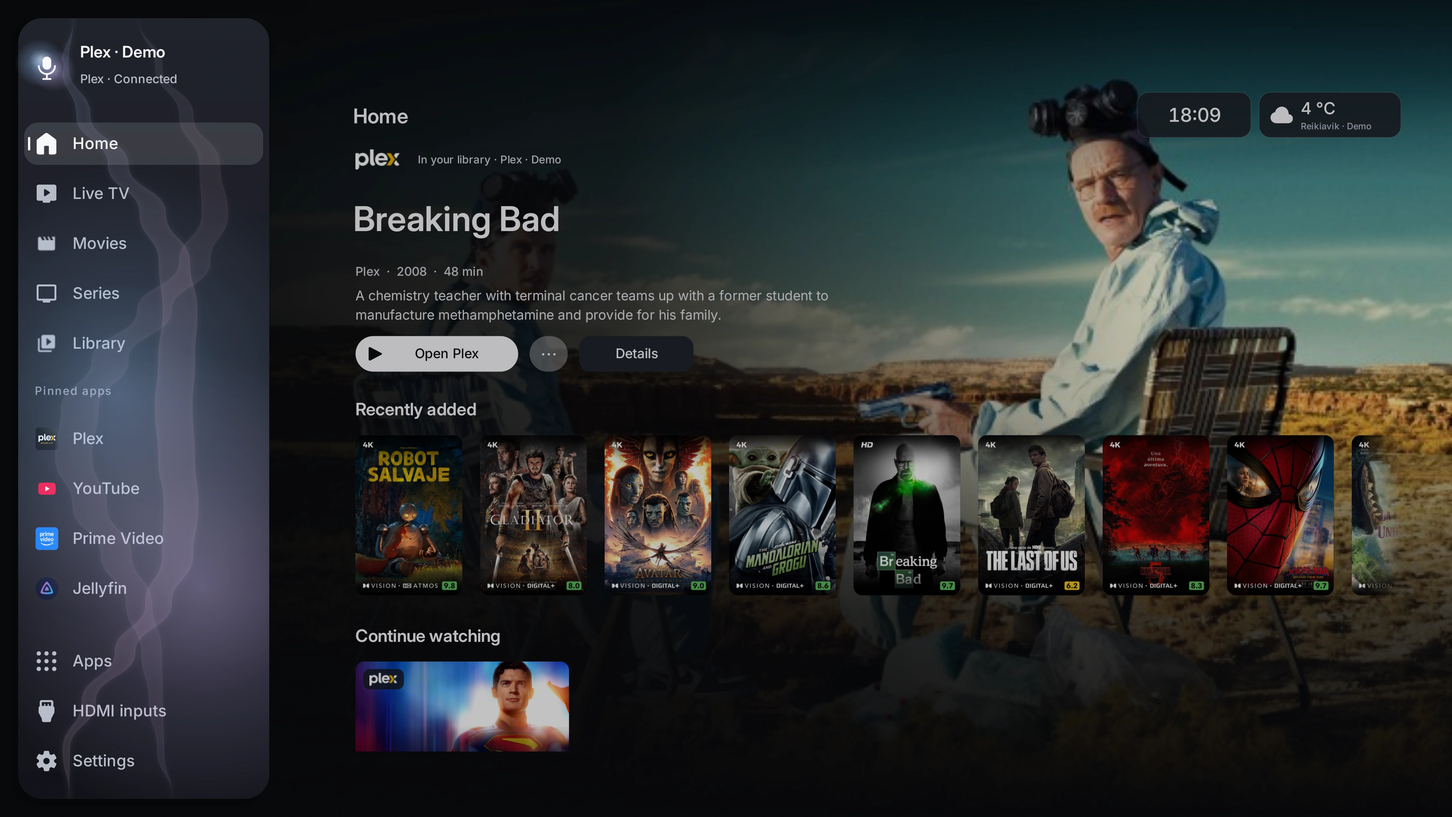
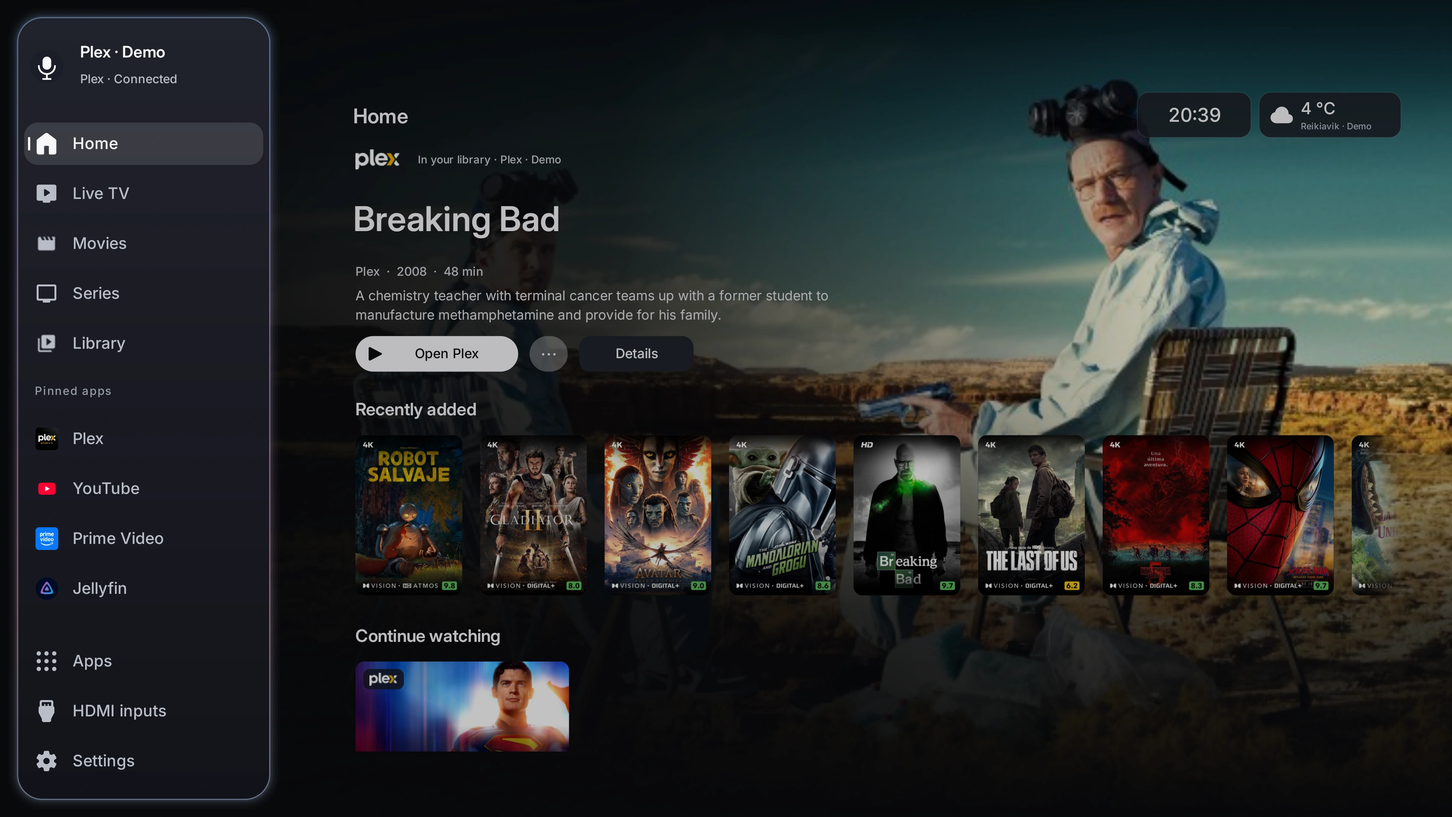
Release Vela 2.1.1 with exterior voice halo and specific Plex catalogue links

diff --git a/app/src/tv/vela/launcher/VelaVoiceSearch.java b/app/src/tv/vela/launcher/VelaVoiceSearch.java
@@ -176,17 +176,15 @@ final class VelaVoiceSearch {
             else{first=accent;hsv[0]=(hsv[0]+22)%360;second=Color.HSVToColor(hsv);hsv[0]=(hsv[0]+316)%360;third=Color.HSVToColor(hsv);}
         }
         int[] rim(){return new int[]{first,second,third,first};}
-        static RadialGradient bloom(int color){return new RadialGradient(0,0,1,new int[]{color,(color&0xFFFFFF)|0x65000000,color&0xFFFFFF},new float[]{0,.48f,1},Shader.TileMode.CLAMP);}
     }
-    /** A clipped, fluid light field follows the actual navigation surface. No full-screen render layer. */
+    /** A feathered contour follows the real sidebar; its interior is excluded from every light pass. */
     private final class Signal extends View {
         private final Paint paint=new Paint(3);private final RectF rect=new RectF(),bar=new RectF();private final Matrix matrix=new Matrix();
-        private final Path clip=new Path(),ribbon=new Path();private final float[] centers=new float[17],widths=new float[17];
-        private final RadialGradient blue,violet,pearl;private final LinearGradient sheet;private ValueAnimator pulse;
+        private final Path clip=new Path();
+        private final LinearGradient edge;private ValueAnimator pulse;
         private float phase,flow,energy,target,processMix,intro,noise=-2,peak=8;private boolean ready,reduced,processing;private long started,lastFrame,lastVoice;
         Signal(VoiceColors colors){
-            super(activity);setImportantForAccessibility(View.IMPORTANT_FOR_ACCESSIBILITY_YES);blue=VoiceColors.bloom(colors.first);violet=VoiceColors.bloom(colors.second);pearl=VoiceColors.bloom(0xFFE8F3FF);
-            sheet=new LinearGradient(0,0,1,1,new int[]{colors.first,colors.third,colors.second},null,Shader.TileMode.CLAMP);
+            super(activity);setImportantForAccessibility(View.IMPORTANT_FOR_ACCESSIBILITY_YES);edge=new LinearGradient(0,0,0,1,colors.rim(),new float[]{0,.34f,.68f,1},Shader.TileMode.MIRROR);
         }
         protected void onSizeChanged(int w,int h,int ow,int oh){bar.set(14,14,w-14,h-14);clip.rewind();clip.addRoundRect(bar,32,32,Path.Direction.CW);}
         void level(float rms){if(!ready||reduced||Float.isNaN(rms)||Float.isInfinite(rms))return;float value=Math.max(-12,Math.min(30,rms));noise=Math.min(noise,value);peak=Math.max(8,Math.max(value,peak*.995f));target=(float)Math.pow(Math.max(0,Math.min(1,(value-noise)/Math.max(6,peak-noise))),.8);lastVoice=SystemClock.uptimeMillis();}
@@ -203,23 +201,20 @@ final class VelaVoiceSearch {
             frame();
         }
         protected void onDetachedFromWindow(){freeze();ready=processing=false;super.onDetachedFromWindow();}
-        private void field(Canvas c,RadialGradient shader,float x,float y,float w,float h,float rotation,int alpha){matrix.setScale(w,h);matrix.postRotate(rotation);matrix.postTranslate(x,y);shader.setLocalMatrix(matrix);paint.setShader(shader);paint.setStyle(Paint.Style.FILL);paint.setAlpha(Math.max(0,Math.min(255,alpha)));c.drawRect(bar,paint);}
-        private void sheet(Canvas c,float offset,float amplitude,int alpha){
-            float w=bar.width(),h=bar.height();for(int i=0;i<=16;i++){float y=i/16f,envelope=(float)Math.sin(y*Math.PI);centers[i]=bar.left+w*(.5f+.22f*(float)Math.sin(y*7.2f+flow*1.2f+offset)+.1f*(float)Math.sin(y*13.4f-flow*.63f));widths[i]=w*(.075f+.07f*amplitude)*envelope;}
-            ribbon.rewind();ribbon.moveTo(centers[0],bar.top);for(int i=1;i<=16;i++){float y0=bar.top+(i-1)*h/16f,y1=bar.top+i*h/16f;ribbon.cubicTo(centers[i-1]-widths[i-1],y0+h/32,centers[i]-widths[i],y1-h/32,centers[i]-widths[i],y1);}for(int i=15;i>=0;i--){float y0=bar.top+(i+1)*h/16f,y1=bar.top+i*h/16f;ribbon.cubicTo(centers[i+1]+widths[i+1],y0-h/32,centers[i]+widths[i],y1+h/32,centers[i]+widths[i],y1);}ribbon.close();
-            matrix.setScale(w,h);matrix.postTranslate(bar.left,bar.top);sheet.setLocalMatrix(matrix);paint.setShader(sheet);paint.setStyle(Paint.Style.STROKE);paint.setStrokeWidth(12);paint.setAlpha(alpha/8);c.drawPath(ribbon,paint);paint.setStrokeWidth(5);paint.setAlpha(alpha/5);c.drawPath(ribbon,paint);paint.setStyle(Paint.Style.FILL);paint.setAlpha(alpha);c.drawPath(ribbon,paint);
+        private void contour(Canvas canvas,float width,int alpha,float strength){
+            paint.setStrokeWidth(width);paint.setAlpha(Math.round(alpha*strength));canvas.drawRoundRect(bar,32,32,paint);
         }
         protected void onDraw(Canvas c){
-            boolean lit=ready||processing;float w=bar.width(),h=bar.height(),strength=intro*(1-.55f*processMix),t=flow;
-            if(lit&&w>0&&h>0){int save=c.save();c.clipPath(clip);
-                field(c,blue,bar.left+w*(.22f+.24f*(float)Math.sin(t*.71f)),bar.top+h*(.3f+.18f*(float)Math.sin(t*.53f)),w*.88f,h*(.29f+.06f*energy),12+12*(float)Math.sin(t*.3f),(int)((100+75*energy)*strength));
-                field(c,violet,bar.left+w*(.78f+.13f*(float)Math.cos(t*.59f)),bar.top+h*(.7f+.17f*(float)Math.cos(t*.43f)),w*.95f,h*.3f,-15,(int)((100+60*energy)*strength));
-                field(c,pearl,bar.left+w*.5f,bar.top+h*(.47f+.2f*(float)Math.sin(t*.67f)),w*.85f,h*.22f,8,(int)((25+34*energy)*strength));
-                sheet(c,.3f,energy,(int)((32+35*energy)*strength));sheet(c,2.7f,energy*.7f,(int)((22+24*energy)*strength));c.restoreToCount(save);
+            boolean lit=ready||processing;float h=bar.height(),strength=intro*(.72f+.28f*energy)*(1-.4f*processMix);
+            if(lit&&bar.width()>0&&h>0){
+                matrix.setScale(1,h*1.18f);matrix.postTranslate(0,bar.top-h*.28f+h*.24f*(float)Math.sin(flow*.58f));edge.setLocalMatrix(matrix);
+                int save=c.save();c.clipOutPath(clip);paint.setShader(edge);paint.setStyle(Paint.Style.STROKE);
+                // Overlapping native strokes soften outwards; no blur, layer or full-screen bitmap.
+                contour(c,28,7,strength);contour(c,22,10,strength);contour(c,16,15,strength);contour(c,10,23,strength);contour(c,5,40,strength);contour(c,2.4f,170,strength);
+                c.restoreToCount(save);
             }
-            // The original profile icon keeps its position in both rail and expanded drawer.
+            // A small neutral microphone is the only replacement for the profile avatar.
             float cx=bar.left+38,cy=bar.top+64;paint.setShader(null);paint.setStyle(Paint.Style.FILL);paint.setColor(0xFF1B1E27);paint.setAlpha(255);c.drawCircle(cx,cy,22,paint);
-            if(lit){int save=c.save();c.clipRect(cx-42,cy-42,cx+42,cy+42);rect.set(bar);bar.set(cx-42,cy-42,cx+42,cy+42);field(c,blue,cx-9+5*(float)Math.sin(t),cy-5,33+energy*7,32,0,(int)(170*intro));field(c,violet,cx+9,cy+9+4*(float)Math.cos(t*.83f),30,28,0,(int)(145*intro));field(c,pearl,cx-7,cy-10,16,13,0,(int)(120*intro));bar.set(rect);c.restoreToCount(save);}
             paint.setShader(null);paint.setStyle(Paint.Style.FILL);paint.setColor(VelaTheme.WHITE);paint.setAlpha(lit?255:175);int badge=c.save();c.translate(cx,cy);c.scale(.82f,.82f);rect.set(-7,-16,7,5);c.drawRoundRect(rect,7,7,paint);paint.setStyle(Paint.Style.STROKE);paint.setStrokeWidth(2.8f);paint.setStrokeCap(Paint.Cap.ROUND);rect.set(-13,-14,13,12);c.drawArc(rect,0,180,false,paint);c.drawLine(0,12,0,20,paint);c.drawLine(-6,20,6,20,paint);c.restoreToCount(badge);
         }
     }

diff --git a/tests/AndroidVoiceTest.java b/tests/AndroidVoiceTest.java
@@ -44,6 +44,11 @@ public final class AndroidVoiceTest extends Instrumentation {
     }
     Bundle words(String text){Bundle b=new Bundle();b.putStringArrayList(SpeechRecognizer.RESULTS_RECOGNITION,new ArrayList<>(Arrays.asList(text)));return b;}
     void armLegacy()throws Exception{monitor=addMonitor(new IntentFilter(RecognizerIntent.ACTION_RECOGNIZE_SPEECH),null,true);ui(()->{try{check(((VelaVoice.Session)field(activity,"voice")).start(activity),"Legacy compatibility session failed");}catch(Exception e){throw new RuntimeException(e);}});check(monitor.getHits()==1,"Legacy session did not launch its explicit intent");removeMonitor(monitor);monitor=null;}
+    void contourPixels(Object signal)throws Exception{
+        final Bitmap[] image={null};final android.graphics.RectF[] bar={null};ui(()->{try{View view=(View)signal;image[0]=Bitmap.createBitmap(view.getWidth(),view.getHeight(),Bitmap.Config.ARGB_8888);view.draw(new android.graphics.Canvas(image[0]));bar[0]=new android.graphics.RectF((android.graphics.RectF)field(signal,"bar"));}catch(Exception e){throw new RuntimeException(e);}});
+        try{android.graphics.RectF b=bar[0];int samples=0;for(int y=(int)b.top+40;y<b.bottom-40;y+=19)for(int x=(int)b.left+8;x<b.right-8;x+=17){if(Math.abs(x-(b.left+38))<25&&Math.abs(y-(b.top+64))<25)continue;check((image[0].getPixel(x,y)>>>24)==0,"Voice light leaked inside the sidebar");samples++;}check(samples>50,"Contour pixel check sampled too little");check((image[0].getPixel((int)b.left-1,(int)b.centerY())>>>24)>0,"The exterior voice contour is missing");}
+        finally{if(image[0]!=null)image[0].recycle();}
+    }
     void productionKeys()throws Exception{
         try(ParcelFileDescriptor grant=getUiAutomation().executeShellCommand("pm grant "+context.getPackageName()+" android.permission.RECORD_AUDIO");InputStream in=new ParcelFileDescriptor.AutoCloseInputStream(grant)){while(in.read()!=-1){}}
         ui(()->{integrated=new VelaVoiceSearch(activity,new VelaVoiceSearch.Host(){public void phrase(String text){((VelaHub.Owner)activity).tools(0);try{actual().voiceQuery(VelaVoice.parse(text));}catch(Exception e){throw new RuntimeException(e);}}public void keyboard(){((VelaHub.Owner)activity).tools(0);}},owner->{FakeSpeech engine=new FakeSpeech();engines.add(engine);return engine;});try{Field f=activity.getClass().getDeclaredField("voiceSearchUI");f.setAccessible(true);f.set(activity,integrated);}catch(Exception e){throw new RuntimeException(e);}});
@@ -58,8 +63,8 @@ public final class AndroidVoiceTest extends Instrumentation {
         // The sole listening surface is the rail; capture and processing never create a prompt or dim Home.
         ui(integrated::start);FakeSpeech motion=engines.get(engines.size()-1);ui(()->{motion.listener.onReadyForSpeech(new Bundle());motion.listener.onRmsChanged(9);});
         Object panel=field(integrated,"panel"),signal=field(panel,"signal");check(field(panel,"strip")==null&&((View)panel).getBackground()==null,"Listening created a transcript panel or darkened Home");
-        View sidebar=activity.findViewById(android.R.id.content).findViewWithTag("vela-sidebar");if(sidebar!=null){android.view.ViewGroup.LayoutParams original=sidebar.getLayoutParams();int width=original.width;ui(()->{original.width=332;sidebar.setLayoutParams(original);});Thread.sleep(150);check(((View)signal).getWidth()>=350,"Expanded drawer still uses collapsed voice bounds");ui(()->{original.width=width;sidebar.setLayoutParams(original);});}Thread.sleep(220);float phaseBefore=(Float)field(signal,"phase");Thread.sleep(100);check((Float)field(signal,"phase")!=phaseBefore&&(Float)field(signal,"energy")>0,"Reactive rail did not animate");
-        key(KeyEvent.KEYCODE_DPAD_CENTER,KeyEvent.ACTION_DOWN);key(KeyEvent.KEYCODE_DPAD_CENTER,KeyEvent.ACTION_UP);check(motion.stopped==1,"OK did not finish quiet listening");check(field(panel,"strip")==null&&((View)panel).getBackground()==null,"Processing displayed a bottom panel");check(!(Boolean)field(signal,"ready")&&(Boolean)field(signal,"processing")&&field(signal,"pulse")!=null,"Processing lost its quieter indicator");ui(integrated::cancel);check(field(signal,"pulse")==null&&motion.destroyed==1,"Closing voice retained an animation clock");
+        View sidebar=activity.findViewById(android.R.id.content).findViewWithTag("vela-sidebar");if(sidebar!=null){android.view.ViewGroup.LayoutParams original=sidebar.getLayoutParams();int width=original.width;ui(()->{original.width=332;sidebar.setLayoutParams(original);});Thread.sleep(150);check(((View)signal).getWidth()>=350,"Expanded drawer still uses collapsed voice bounds");contourPixels(signal);ui(()->{original.width=width;sidebar.setLayoutParams(original);});}Thread.sleep(220);float phaseBefore=(Float)field(signal,"phase");Thread.sleep(100);check((Float)field(signal,"phase")!=phaseBefore&&(Float)field(signal,"energy")>0,"Reactive rail did not animate");
+        contourPixels(signal);key(KeyEvent.KEYCODE_DPAD_CENTER,KeyEvent.ACTION_DOWN);key(KeyEvent.KEYCODE_DPAD_CENTER,KeyEvent.ACTION_UP);check(motion.stopped==1,"OK did not finish quiet listening");check(field(panel,"strip")==null&&((View)panel).getBackground()==null,"Processing displayed a bottom panel");check(!(Boolean)field(signal,"ready")&&(Boolean)field(signal,"processing")&&field(signal,"pulse")!=null,"Processing lost its quieter indicator");ui(integrated::cancel);check(field(signal,"pulse")==null&&motion.destroyed==1,"Closing voice retained an animation clock");
         String namespace=lite?"lite_home":"visuals",motionKey=lite?"reduce_motion":"reducedMotion";VelaWorkspace.prefs(context,namespace).edit().putBoolean(motionKey,true).commit();
         ui(integrated::start);FakeSpeech reduced=engines.get(engines.size()-1);ui(()->reduced.listener.onReadyForSpeech(new Bundle()));Object staticSignal=field(field(integrated,"panel"),"signal");check(field(staticSignal,"pulse")==null&&(Boolean)field(staticSignal,"ready"),"Reduced motion started a voice animation");ui(integrated::cancel);VelaWorkspace.prefs(context,namespace).edit().putBoolean(motionKey,false).commit();
         check(!VelaVoice.key(KeyEvent.KEYCODE_ASSIST)&&!VelaVoice.key(KeyEvent.KEYCODE_VOICE_ASSIST),"Google buttons were claimed by Vela");

diff --git a/tests/AndroidHomePersonalizationTest.java b/tests/AndroidHomePersonalizationTest.java
@@ -53,6 +53,17 @@ public final class AndroidHomePersonalizationTest extends Instrumentation {
     }
     List<View> cards()throws Exception{return (List<View>)field(home,"cards");}
     List<?> shelves()throws Exception{return (List<?>)field(home,"shelves");}
+    void itemHandoffs()throws Exception{
+        final Intent[] opened={null};ActivityMonitor monitor=new ActivityMonitor(){public ActivityResult onStartActivity(Intent intent){if("com.plexapp.android".equals(intent.getPackage())){opened[0]=new Intent(intent);return new ActivityResult(Activity.RESULT_OK,null);}return null;}};addMonitor(monitor);
+        try{final List<PlexClient.Film> samples=new ArrayList<>();ui(()->{try{List<PlexClient.Film> values=(List<PlexClient.Film>)field(home,"posterFilms");List<View> all=cards();for(Object row:shelves()){List<View> items=(List<View>)field(row,"items");if(!items.isEmpty())for(View card:Arrays.asList(items.get(0),items.get(items.size()-1)))samples.add(values.get(all.indexOf(card)));}}catch(Exception e){throw new RuntimeException(e);}});int checked=0,series=0;
+            for(PlexClient.Film expected:samples){opened[0]=null;ui(()->{try{List<PlexClient.Film> current=(List<PlexClient.Film>)field(home,"posterFilms");int at=-1;for(int i=0;i<current.size();i++)if(current.get(i).key.equals(expected.key)&&current.get(i).continuing==expected.continuing){at=i;break;}check(at>=0,"Fixture title disappeared before click");cards().get(at).performClick();}catch(Exception e){throw new RuntimeException(e);}});Intent intent=opened[0];check(intent!=null&&Intent.ACTION_VIEW.equals(intent.getAction()),"A title opened only the Plex launcher");android.net.Uri uri=intent.getData();String server=new PlexClient(context).prefs.getString("serverId","");
+                if(expected.continuing){check("preplay".equals(uri.getHost())&&("/library/metadata/"+expected.key).equals(uri.getQueryParameter("metadataKey"))&&server.equals(uri.getQueryParameter("server")),"Resume handoff changed");}
+                else{check("libraries".equals(uri.getHost()),"Fresh title used a generic/old preplay link");List<String> parts=uri.getPathSegments();check(parts.get(0).equals(server)&&parts.get(parts.size()-1).equals("/library/metadata/"+expected.key),"Clicked card lost server or item identity");check(parts.contains("tv")==expected.type.equals("show"),"Series and movie routes were confused");check(!intent.getBooleanExtra("android.intent.extra.START_PLAYBACK",true),"A fresh title unexpectedly starts playback");if(expected.type.equals("show"))series++;}
+                check(!uri.toString().contains("fixture-session")&&!uri.toString().contains("vela-fixture.invalid"),"Account credentials or server address escaped in a handoff");checked++;
+            }check(checked>=12&&series>0,"Not all configured Home rows were checked");
+            PlexClient.Film invalid=new PlexClient.Film();invalid.packageName="com.plexapp.android";invalid.type="movie";invalid.key="../bad";check(new LibraryClient(context).open(invalid)==null,"Malformed item should not become a generic Plex launch");
+        }finally{removeMonitor(monitor);}
+    }
     void launch()throws Exception{activity=(HomeActivity)startActivitySync(new Intent(context,HomeActivity.class).addFlags(Intent.FLAG_ACTIVITY_NEW_TASK));home=(CinemaHomeView)field(activity,"home");await(()->!cards().isEmpty()&&field(home,"heroBitmap")!=null);}
     public void onCreate(Bundle b){super.onCreate(b);args=b;start();}
     public void onStart(){context=getTargetContext();try{
@@ -71,6 +82,7 @@ public final class AndroidHomePersonalizationTest extends Instrumentation {
         phase="home-feeds";launch();await(()->((Map<?,?>)field(home,"homeRows")).size()==4);check(rowRequests.get()==4,"A row made redundant feed requests");check(shelves().size()==6,"The configured Home rows are missing");
         List<PlexClient.Film> films=(List<PlexClient.Film>)field(home,"posterFilms");check(films.size()<=72,"Home retained an entire catalogue");
         for(String row:VelaLayout.EXTRA_ROWS){List<?> values=((Map<String,List<?>>)field(home,"homeRows")).get(row);check(values.size()==12,"Home row exceeded twelve titles");}
+        phase="home-card-item-handoffs";itemHandoffs();
         overrun=true;boolean refused=false;try{new LibraryClient(context).homeRow("recent_movies");}catch(IOException expected){refused=true;}overrun=false;check(refused,"The server ignored the Home response limit");
         await(()->{for(ImageView v:(List<ImageView>)field(home,"posterImages"))if(v.getGlobalVisibleRect(new Rect())&&v.getDrawable()==null)return false;return true;});shot("01-home");
         phase="scroll-motion";ScrollView scroll=(ScrollView)field(home,"shelvesScroll");Object next=shelves().get(1);View nextCard=((List<View>)field(next,"items")).get(0);int target=((View)field(next,"root")).getTop();int initial=scroll.getScrollY();

diff --git a/tests/PlexFeedTest.java b/tests/PlexFeedTest.java
@@ -4,6 +4,7 @@ import java.util.*;
 
 public class PlexFeedTest {
     public static void main(String[] args) throws Exception {
+        links();
         require(PlexClient.avatarAllowed("https://plex.tv/users/example/avatar")&&PlexClient.avatarAllowed("https://secure.gravatar.com/avatar/example"),"Plex avatar sources");
         for(String url:new String[]{"http://plex.tv/users/example/avatar","https://plex.tv.attacker.invalid/avatar","https://user@plex.tv/avatar","https://plex.tv:8080/avatar","file:///avatar.png","https://127.0.0.1/avatar"})require(!PlexClient.avatarAllowed(url),"Unsafe avatar source accepted");
         require(PlexClient.profileKey("").isEmpty(),"Unlinked account must not share a previous avatar");
@@ -84,6 +85,19 @@ public class PlexFeedTest {
         JSONObject finished=new JSONObject(episode.toString()).put("viewOffset",100);PlexClient.mergeContinue(nextHome,new JSONObject().put("MediaContainer",new JSONObject().put("Metadata",new JSONArray().put(finished).put(upcoming))));require(PlexClient.parseHubs(nextHome).size()==1&&PlexClient.parseHubs(nextHome).get(0).key.equals("102"),"finished metadata hid the next pending episode");
         require(PlexClient.watchedPath("102").equals("/:/scrobble?identifier=com.plexapp.plugins.library&key=102"),"watched endpoint");for(String bad:new String[]{"", "../42", "42&key=other", "movie", "999999999999999999999"}){rejected=false;try{PlexClient.watchedPath(bad);}catch(Exception expected){rejected=true;}require(rejected,"unsafe Plex watched item accepted");}
         System.out.println("PASS Plex feed and catalog: real artwork, hub-based continue watching, sections, bounded pages, offset validation, deduplication, unknown totals and empty/last pages");
+    }
+    private static void links()throws Exception{
+        PlexClient.Film film=new PlexClient.Film();film.key="123";film.type="movie";film.title="Never placed in the URI";String prefix="plex://libraries/demo-server/unmatched/";
+        require(PlexClient.detailUri("demo-server",film,true).equals(prefix+"%2Flibrary%2Fmetadata%2F123"),"movie must target one encoded metadata route, not Plex Home");
+        film.type="show";require(PlexClient.detailUri("demo-server",film,true).equals(prefix+"tv/%2Flibrary%2Fmetadata%2F123"),"series must use the TV detail route");
+        film.type="season";film.seriesKey="42";require(PlexClient.detailUri("demo-server",film,true).equals(prefix+"tv/%2Flibrary%2Fmetadata%2F42"),"season handoff lost its series");
+        JSONObject season=new JSONObject().put("ratingKey","55").put("type","season").put("title","Season 1").put("parentRatingKey","42");PlexClient.Film parsedSeason=PlexClient.parseChildren(page(new JSONArray().put(season),0,1),0,24).films.get(0);require(parsedSeason.seriesKey.equals("42")&&PlexClient.detailUri("demo-server",parsedSeason,true).equals(prefix+"tv/%2Flibrary%2Fmetadata%2F42"),"Parsed season lost its parent-series destination");
+        film.type="episode";require(PlexClient.detailUri("demo-server",film,true).equals(prefix+"%2Flibrary%2Fmetadata%2F123"),"episode was replaced by the series key");
+        require(PlexClient.detailUri("other-server",film,false).equals("plex://server://other-server/com.plexapp.plugins.library/library/metadata/123?autoPlay=0"),"legacy Android route lost server or selected item");
+        require(PlexClient.modernLinks("2026.20.0")&&PlexClient.modernLinks("2025.10.1")&&!PlexClient.modernLinks("10.30.8.4222")&&!PlexClient.modernLinks("9.23.0")&&PlexClient.modernLinks(null),"Plex app generation selection");
+        for(String key:new String[]{"","../123","123?token=private","123&key=456","/library/metadata/123","999999999999999999999"}){film.key=key;require(PlexClient.detailUri("demo-server",film,true)==null,"unsafe item handoff");}film.key="123";
+        for(String server:new String[]{"","../server","server?X-Plex-Token=private","server/path","server#fragment","https://host.invalid"})require(PlexClient.detailUri(server,film,true)==null,"unsafe server handoff");
+        film.type="track";require(PlexClient.detailUri("demo-server",film,true)==null,"unsupported item handoff");
     }
     private static JSONObject page(JSONArray items,int offset,int total)throws Exception{return new JSONObject().put("MediaContainer",new JSONObject().put("Metadata",items).put("offset",offset).put("totalSize",total));}
     private static void require(boolean value,String message) { if(!value)throw new AssertionError(message); }

diff --git a/app/src/tv/vela/launcher/PlexClient.java b/app/src/tv/vela/launcher/PlexClient.java
@@ -287,7 +287,7 @@ class PlexClient {
         if(type.equals("episode"))film.meta+="  ·  T"+item.optInt("parentIndex")+" E"+item.optInt("index");
         long duration=item.optLong("duration"),offset=item.optLong("viewOffset");
         film.durationMs=Math.max(0,duration);film.positionMs=item.has("viewOffset")&&!item.isNull("viewOffset")?Math.max(-1,offset):-1;
-        film.seriesKey=type.equals("episode")?item.optString("grandparentRatingKey"):"";film.nextEpisode=resume&&type.equals("episode")&&offset<=0&&item.optInt("viewCount")==0;if(film.nextEpisode){film.positionMs=0;if(duration>0)film.progress=0;}
+        film.seriesKey=type.equals("episode")?item.optString("grandparentRatingKey"):type.equals("season")?item.optString("parentRatingKey"):"";film.nextEpisode=resume&&type.equals("episode")&&offset<=0&&item.optInt("viewCount")==0;if(film.nextEpisode){film.positionMs=0;if(duration>0)film.progress=0;}
         long last=item.optLong("lastViewedAt");if(last>0&&last<=Long.MAX_VALUE/1000)film.lastPlayedMs=last*1000;
         long added=item.optLong("addedAt");if(added>0&&added<=Long.MAX_VALUE/1000)film.addedAtMs=added*1000;film.homeRating=VelaHomeRows.rating(item.optDouble("audienceRating",item.optDouble("rating",0)));
         if(type.equals("episode"))film.episodeLabel="T"+item.optInt("parentIndex")+" · E"+item.optInt("index");
@@ -301,9 +301,26 @@ class PlexClient {
         if(base==null||token==null||token.isEmpty()||id==null||!expectedIdentity.equals(id+":"+profileKey(token)))throw new IOException("Plex account changed");
         bytes(base+path,token,null,8000,64*1024,"PUT");if(expectedIdentity.equals(identity()))prefs.edit().remove("libraryCache").remove("libraryAt").commit();
     }
-    String openUri(Film film) {
-        return "plex://preplay/?metadataKey=" + encode("/library/metadata/" + film.key)
-                + "&server=" + encode(prefs.getString("serverId", ""));
+    String openUri(Film film){return openUri(film,true);}
+    String openUri(Film film,boolean modern){
+        String server=prefs.getString("serverId","");
+        if(!validLink(server,film))return null;
+        // Preserve the existing resume handoff. Fresh catalogue items need a library-detail route.
+        return film.continuing?"plex://preplay/?metadataKey=%2Flibrary%2Fmetadata%2F"+film.key+"&server="+server:detailUri(server,film,modern);
+    }
+    private static boolean validLink(String server,Film film){return server!=null&&server.matches("[A-Za-z0-9][A-Za-z0-9._-]{0,127}")&&film!=null&&film.key!=null&&film.key.matches("[0-9]{1,20}")&&Arrays.asList("movie","show","season","episode").contains(film.type);}
+    /** Local metadata only: never place account tokens, addresses or titles in an app handoff. */
+    static String detailUri(String server,Film film,boolean modern){
+        if(!validLink(server,film))return null;
+        if(!modern)return "plex://server://"+server+"/com.plexapp.plugins.library/library/metadata/"+film.key+"?autoPlay=0";
+        boolean series=film.type.equals("show")||film.type.equals("season");String key=film.key;
+        if(film.type.equals("season")&&film.seriesKey!=null&&film.seriesKey.matches("[0-9]{1,20}"))key=film.seriesKey;
+        // Plex expects the complete metadata path encoded once as a single route segment.
+        return "plex://libraries/"+server+"/unmatched/"+(series?"tv/":"")+"%2Flibrary%2Fmetadata%2F"+key;
+    }
+    static boolean modernLinks(String version){
+        if(version==null)return true;java.util.regex.Matcher year=java.util.regex.Pattern.compile("^([0-9]{4})\\.").matcher(version);
+        return year.find()?Integer.parseInt(year.group(1))>=2025:!version.matches("^[0-9]{1,2}\\..*");
     }
     byte[] image(String path, int width, int height) throws IOException {
         return image(path,width,height,false);

diff --git a/app/src/tv/vela/launcher/LibraryClient.java b/app/src/tv/vela/launcher/LibraryClient.java
@@ -76,5 +76,17 @@ final class LibraryClient {
     void markWatched(PlexClient.Film f,String expected)throws Exception{if(!canMarkWatched(f)||!expected.equals(identity()))throw new IOException("Library account changed");if(jf(f))jellyfin.markWatched(f.key,jellyfin.identity());else plex.markWatched(f.key,plex.identity());}
     JSONObject reference(PlexClient.Film f)throws Exception{if(f.tvSource||!Arrays.asList("com.plexapp.android",JellyfinClient.PACKAGE).contains(f.packageName))return null;String account=PlexClient.profileKey(jf(f)?jellyfin.identity():plex.identity());return new JSONObject().put("id","media:"+PlexClient.profileKey(f.packageName+"|"+account+"|"+f.key)).put("kind","media").put("provider",jf(f)?"Jellyfin":"Plex").put("key",f.key).put("account",account).put("title",VelaWorkspace.clean(f.title,320));}
     PlexClient.Film resolve(JSONObject ref)throws Exception{boolean jf=ref.optString("provider").equals("Jellyfin");String expected=PlexClient.profileKey(jf?jellyfin.identity():plex.identity());if(!ref.optString("account").equals(expected))return null;PlexClient.Film f=jf?jellyfin.item(ref.optString("key")):plex.item(ref.optString("key"));if(f!=null)decorate(Arrays.asList(f));return f;}
-    Intent open(PlexClient.Film f){if(jf(f)){String id=JellyfinClient.guid(f.key);Intent i=HomeApps.launchIntent(context.getPackageManager(),JellyfinClient.PACKAGE);return id.isEmpty()||i==null?null:i.putExtra("ItemId",id).putExtra("HideSplash",true);}return new Intent(Intent.ACTION_VIEW,android.net.Uri.parse(plex.openUri(f))).setPackage("com.plexapp.android");}
+    Intent open(PlexClient.Film f){
+        if(f==null)return null;if(jf(f)){String id=JellyfinClient.guid(f.key);Intent i=HomeApps.launchIntent(context.getPackageManager(),JellyfinClient.PACKAGE);return id.isEmpty()||i==null?null:i.putExtra("ItemId",id).putExtra("HideSplash",true);}
+        if(!f.packageName.equals("com.plexapp.android"))return null;
+        boolean modern=true;try{modern=PlexClient.modernLinks(context.getPackageManager().getPackageInfo("com.plexapp.android",0).versionName);}catch(android.content.pm.PackageManager.NameNotFoundException unavailable){}
+        String uri=plex.openUri(f,modern);if(uri==null)return null;Intent preferred=plexIntent(uri,f.continuing);
+        if(preferred.resolveActivity(context.getPackageManager())!=null)return preferred;
+        String server=plex.prefs.getString("serverId","");for(boolean family:new boolean[]{modern,!modern}){
+            String route=PlexClient.detailUri(server,f,family);if(route==null||route.equals(uri))continue;Intent alternate=plexIntent(route,f.continuing);if(alternate.resolveActivity(context.getPackageManager())!=null)return alternate;
+        }
+        // Starting the specific intent reports a real failure; never silently replace it with Plex Home.
+        return preferred;
+    }
+    private static Intent plexIntent(String uri,boolean resume){Intent i=new Intent(Intent.ACTION_VIEW,android.net.Uri.parse(uri)).setPackage("com.plexapp.android");if(!resume)i.putExtra("android.intent.extra.START_PLAYBACK",false);return i;}
 }

diff --git a/app/src/tv/vela/launcher/CinemaHomeView.java b/app/src/tv/vela/launcher/CinemaHomeView.java
@@ -760,7 +760,7 @@ final class CinemaHomeView extends FrameLayout {
         if(selected==null){LibraryClient shown=filter==0?homeLibrary:plex;if(filter==3)openPackage(TvSuggestions.YOUTUBE,"YouTube");else if(!shown.connected()){if(filter==0&&!VelaLayout.source(activity).equals("current"))activity.startActivity(new Intent(activity,shown.linkActivity()));else manageLibrary();}else openPackage(shown.packageName(),shown.provider());return;}
         refreshedAt=0;
         if(selected.tvSource){Intent intent=ContinueWatching.launch(activity,selected);if(intent!=null)launch(intent);else openPackage(selected.packageName,selected.provider);return;}
-        Intent intent=plex.open(selected);if(intent!=null&&intent.resolveActivity(activity.getPackageManager())!=null)launch(intent);else openPackage(selected.packageName,selected.provider);
+        Intent intent=plex.open(selected);if(intent!=null)launch(intent);else note(L10n.text("Could not open this option."));
     }
     private void manageLibrary(){if(toolsLayer!=null){((HomeActivity)activity).afterTools(v->v.manageLibrary());return;}activity.startActivity(plex.both()?new Intent(activity,SettingsActivity.class).putExtra("page",21):plex.connected()?new Intent(activity,plex.linkActivity()):new Intent(activity,SettingsActivity.class).putExtra("page",14));}
     private void openPackage(String pkg,String name){if(toolsLayer!=null){((HomeActivity)activity).afterTools(v->v.openPackage(pkg,name));return;}Intent intent=HomeApps.launchIntent(activity.getPackageManager(),pkg);if(intent==null){note(name+L10n.text(" is not installed."));return;}launch(intent);}

diff --git a/lite/README.md b/lite/README.md
@@ -4,11 +4,11 @@
 
 **Lite is now a mode inside the unified Vela APK.** Choose it on first launch or in Settings → System → Launcher mode. It keeps the existing HDMI, antenna and apps interface while leaving the multimedia Home and library clients inactive. [One app and migration guide](../guide/UNIFIED.md).
 
-Already using the old standalone Lite app? Its final [0.18.0 transition update](https://github.com/LucasLG92/vela-tv/releases/tag/lite-v0.18.1-preview) enables an explicit import of your current settings profile into unified Vela.
+Already using the old standalone Lite app? Its final [0.18.2 transition update](https://github.com/LucasLG92/vela-tv/releases/tag/lite-v0.18.2-preview) enables an explicit import of your current settings profile into unified Vela.
 
 Your **HDMI devices, antenna television and apps**, in a clean home screen made for your remote. Vela Lite is for the television that sits alongside a TV box, console or computer.
 
-**[Download Vela — choose Lite](https://github.com/LucasLG92/vela-tv/releases/tag/v2.1.0-preview)** · [Gallery](gallery/README.md) · [Installation](INSTALL.md) · [Full Vela](../README.md)
+**[Download Vela — choose Lite](https://github.com/LucasLG92/vela-tv/releases/tag/v2.1.1-preview)** · [Gallery](gallery/README.md) · [Installation](INSTALL.md) · [Full Vela](../README.md)
 
 **Android TV / Google TV · Android 8.0+ · English / Español / Português / Français / Deutsch / Italiano · Preview**
 
@@ -80,7 +80,7 @@ Every menu is available in **English, Spanish, Portuguese, French, German and It
 
 Lite contains **no Plex, Jellyfin, M3U, Xtream or Media3 runtime**. The tuner handles antenna playback. Small paged lists, recycled rows, local icons and disposable workers keep the launcher focused on its job. It has no background service.
 
-Both modes check and download the same unified Vela release. Downloads are verified before Android asks you to install, and completed APKs are cleaned from the private cache. Only the old standalone Lite package uses the final 0.18.0 transition release; new users choose Lite inside the unified app.
+Both modes check and download the same unified Vela release. Downloads are verified before Android asks you to install, and completed APKs are cleaned from the private cache. Only the old standalone Lite package uses the final 0.18.2 transition release; new users choose Lite inside the unified app.
 
 [Player controls](../guide/PLAYER.md) · [All personalisation tools](../guide/YOUR-VELA.md) · [HDMI detection](../guide/HDMI.md) · [Privacy](../guide/PRIVACY.md) · [Development and compatibility](DEVELOPMENT.md)
 

diff --git a/gallery/README.md b/gallery/README.md
@@ -1,6 +1,6 @@
 # Vela in pictures
 
-Explore 81 native **4K screenshots**. The new voice and search captures show **2.1.0-preview**. The unified mode selector, Lite, mode settings and personalised Home captures show **2.0.0-preview**; the explicit old-Lite import prompt shows the **0.18.0-preview** transition app. Earlier feature captures retain their version in the image manifest. The main gallery is in English; language previews show French, German and Italian. Film artwork and original app/channel names retain their source language.
+Explore 81 native **4K screenshots**. The exterior voice-halo captures show the renderer released in **2.1.1-preview**, recorded during its development. The search captures show **2.1.0-preview**. The unified mode selector, Lite, mode settings and personalised Home captures show **2.0.0-preview**; the explicit old-Lite import prompt shows the **0.18.0-preview** transition app. Earlier feature captures retain their version in the image manifest. The main gallery is in English; language previews show French, German and Italian. Film artwork and original app/channel names retain their source language.
 
 These are actual Android views captured in an owned emulator. Libraries, progress, profiles, HDMI connections and Lite tuner information use demonstration fixtures; no personal account or private location is shown. Public live-TV captures use TDTChannels and dobleM guide data. [Image credits](CREDITS.md) · [Image manifest](index.json)
 
@@ -26,7 +26,7 @@ Arrange shelves, choose their size and source, and add latest movies, series, un
 
 ## A little light when Vela listens
 
-A compact microphone and an accent-coloured glow respond to your voice. Assign your own shortcut; Android supplies speech recognition. This capture uses synthetic speech input.
+A small neutral microphone and a soft exterior halo respond to your voice. The sidebar interior remains clear, both collapsed and expanded. Assign your own shortcut; Android supplies speech recognition. This capture uses synthetic speech input.
 
 ![Integrated Vela voice search](100-voice-glow.webp)
 

diff --git a/README.md b/README.md
@@ -4,7 +4,7 @@
 
 A personal home screen for **Android TV and Google TV**. Bring your Plex or Jellyfin library, live channels, apps and HDMI devices together in a calm interface made for your remote.
 
-**[Download Vela](https://github.com/LucasLG92/vela-tv/releases/tag/v2.1.0-preview)** · [Explore the gallery](gallery/README.md) · [Installation](guide/INSTALL.md) · **[Vela Lite](lite/README.md)**
+**[Download Vela](https://github.com/LucasLG92/vela-tv/releases/tag/v2.1.1-preview)** · [Explore the gallery](gallery/README.md) · [Installation](guide/INSTALL.md) · **[Vela Lite](lite/README.md)**
 
 **One APK · Lite: Android 8+ · Full: Android 11+ · Six languages · Preview · MIT**
 
@@ -96,7 +96,7 @@ Every menu is available in **English, Spanish, Portuguese, French, German and It
 
 Settings and personalisation stay within the main sidebar, with clear categories and the same remote navigation throughout. Assign an available remote or keyboard button to **Vela voice search**. A small microphone and a voice-responsive sidebar glow show when Vela is listening, keeping Home visible. Permission and error controls appear only when needed. Vela asks for microphone permission on first use and releases the recognizer when you leave. It uses Android’s on-device recognizer when available, otherwise the installed speech service. Unassigned Google Assistant keys keep their normal role.
 
-Search across your connected Plex or Jellyfin libraries without opening each section. Choose a calm result grid or open the first ranked voice match, independently for each profile. Light flows inside the sidebar while you speak, adapting to its expanded shape and your reduced-motion preference.
+Search across your connected Plex or Jellyfin libraries without opening each section. Choose a calm result grid or open the first ranked voice match, independently for each profile. A soft light follows the outside of the sidebar while you speak, adapting to its expanded shape and your reduced-motion preference.
 
 ![Search results inside Vela](gallery/103-search-results.webp)
 

diff --git a/guide/HOME-AND-VOICE.md b/guide/HOME-AND-VOICE.md
@@ -26,7 +26,7 @@ Lite keeps its HDMI, antenna and app sections. It shares the editor and voice in
 
 Open **System → Remote shortcuts**, add an available button and choose **Vela voice search** for its short or long press. Keyboard function keys such as F6 can be assigned when Android delivers them. No function key is taken over automatically.
 
-Press the assigned button while Vela is on screen. A small microphone replaces the sidebar profile picture; a soft, flowing light stays inside the actual sidebar bounds and responds to speech levels. Home stays fully visible, without a listening panel, transcript or dimmed background. A quieter sidebar animation indicates processing, then fades before results open; Reduce motion keeps the light static. The active listening indication starts only after Android reports that the microphone is ready. Accessibility services still receive status descriptions.
+Press the assigned button while Vela is on screen. A small, neutral microphone replaces the sidebar profile picture; a soft light follows only the exterior contour of the actual sidebar and responds to speech levels. Home stays fully visible, without a listening panel, transcript or dimmed background. A quieter sidebar animation indicates processing, then fades before results open; Reduce motion keeps the light static. The active listening indication starts only after Android reports that the microphone is ready. Accessibility services still receive status descriptions.
 
 Back cancels; OK or the voice shortcut finishes listening. A themed message with Retry, Keyboard and Cancel controls appears only when permission or error recovery needs your attention. Retrying hides it again. Successful speech follows your saved search-result preference.
 

diff --git a/guide/releases/2.1.1-preview.md b/guide/releases/2.1.1-preview.md
@@ -1,0 +1,11 @@
+# Vela 2.1.1 Preview · Clearer voice, closer to your library
+
+- **Exterior voice halo:** a soft, speech-responsive contour follows the outside of the sidebar, collapsed or expanded. The microphone stays small and neutral. Interior ribbons and microphone blooms are removed. Reduced motion keeps a static contour.
+- **Specific Plex titles:** catalogue cards use item-specific Android library-detail links, with a separate series route and compatibility with legacy Android clients. Season metadata retains its parent series. Existing Continue watching handoffs stay preferred when Android can resolve them.
+- **Clear launch failures:** Vela no longer disguises a failed catalogue handoff by opening Plex Home instead. Links carry only server and item identifiers, without tokens or server addresses.
+
+Native Vela tests cover clicks across Home shelves, movie/series routing, unchanged resume handoffs, invalid identifiers and an exterior-only halo in both modes and sidebar sizes. The destination screen inside real Plex clients still needs verification on physical televisions; this preview is intended for that testing. No new background service, artwork cache or microphone recording is added.
+
+One signed APK includes Full on Android 11+ and Lite on Android 8+. Existing settings and linked accounts stay in place. Standalone Lite 0.18.2 receives the shared exterior halo and keeps its explicit migration route.
+
+[Gallery](https://github.com/LucasLG92/vela-tv/tree/main/gallery) · [Installation](https://github.com/LucasLG92/vela-tv/blob/main/guide/INSTALL.md)
